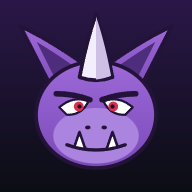
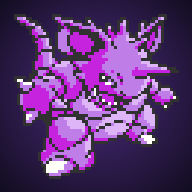
NidoCollection 1.14.1: icona dallo sprite di Nidoking
Icone (iPhone, Android, favicon, estensione) e logo generati dallo sprite pixel art
fornito, ingrandito senza sfocature su sfondo viola scuro.

diff --git a/app.js b/app.js
@@ -502,9 +502,9 @@ async function driveConnectAndSync() {
   renderDriveState();
 }
 
-// logo: volto di Nidoking (stesso disegno di icons/nidoking.svg, usato anche come icona dell'app)
+// logo: sprite di Nidoking (icons/nidoking-sprite.png, ingrandito senza sfocare in icons/logo.png)
 function logoSvg() {
-  return `<svg viewBox="0 0 512 512"><defs><linearGradient id="nk-bg" x1="0" y1="0" x2="0" y2="1"><stop offset="0" stop-color="#2a1748"/><stop offset="1" stop-color="#0b0d14"/></linearGradient><linearGradient id="nk-skin" x1="0" y1="0" x2="0" y2="1"><stop offset="0" stop-color="#9d6ad8"/><stop offset="1" stop-color="#7a49b8"/></linearGradient></defs><rect width="512" height="512" rx="112" fill="url(#nk-bg)"/><g stroke="#241338" stroke-width="10" stroke-linejoin="round" stroke-linecap="round"><path d="M152 262 L54 70 Q130 104 236 180 Z" fill="url(#nk-skin)"/><path d="M360 262 L458 70 Q382 104 276 180 Z" fill="url(#nk-skin)"/><path d="M160 236 L98 112 Q146 140 210 186 Z" fill="#4f2d7d" stroke="none"/><path d="M352 236 L414 112 Q366 140 302 186 Z" fill="#4f2d7d" stroke="none"/><ellipse cx="256" cy="306" rx="160" ry="142" fill="url(#nk-skin)"/><path d="M212 206 Q230 112 256 36 Q282 112 300 206 Q256 222 212 206 Z" fill="#f3eefb"/></g><path d="M256 44 Q280 114 296 202 Q276 210 256 212 Z" fill="#cdbfe6"/><ellipse cx="256" cy="362" rx="114" ry="74" fill="#ab84e0"/><g stroke="#241338" stroke-width="6" stroke-linejoin="round"><path d="M158 286 Q196 254 236 270 Q218 308 178 306 Z" fill="#fff"/><path d="M354 286 Q316 254 276 270 Q294 308 334 306 Z" fill="#fff"/></g><circle cx="210" cy="284" r="13" fill="#d8304d"/><circle cx="302" cy="284" r="13" fill="#d8304d"/><circle cx="212" cy="284" r="5.5" fill="#1a0d2a"/><circle cx="300" cy="284" r="5.5" fill="#1a0d2a"/><g stroke="#241338" stroke-width="15" stroke-linecap="round" fill="none"><path d="M150 250 Q196 250 240 266"/><path d="M362 250 Q316 250 272 266"/></g><ellipse cx="234" cy="340" rx="7" ry="5" fill="#241338"/><ellipse cx="278" cy="340" rx="7" ry="5" fill="#241338"/><g stroke="#241338" stroke-width="7" stroke-linejoin="round" stroke-linecap="round"><path d="M178 386 Q256 414 334 386" fill="none" stroke-width="9"/><path d="M198 392 L212 352 L228 398 Z" fill="#fff"/><path d="M314 392 L300 352 L284 398 Z" fill="#fff"/></g></svg>`;
+  return `<img class="logo-img" src="icons/logo.png" alt="NidoCollection">`;
 }
 
 function render() {

diff --git a/style.css b/style.css
@@ -71,7 +71,9 @@ h3 { font-size: 15px; font-weight: 650; }
 /* ---- barra laterale ---- */
 .side { position: sticky; top: 0; height: 100vh; padding: 22px 14px; display: flex; flex-direction: column; gap: 22px; border-right: 1px solid var(--line); background: color-mix(in srgb, var(--bg2) 70%, transparent); backdrop-filter: blur(10px); }
 .brand { display: flex; gap: 10px; align-items: center; padding: 0 8px; }
-.logo svg { width: 40px; height: 40px; display: block; }
+.logo svg, .logo img { width: 40px; height: 40px; display: block; }
+.logo-img { border-radius: 10px; image-rendering: pixelated; }
+.hero-empty .logo-img { width: 96px; height: 96px; border-radius: 22px; margin-bottom: 8px; }
 .brand-name { font-weight: 800; font-size: 17px; letter-spacing: -.02em; background: var(--grad); -webkit-background-clip: text; background-clip: text; color: transparent; }
 .brand-sub { font-size: 11.5px; color: var(--ink3); }
 .side nav { display: flex; flex-direction: column; gap: 3px; }

diff --git a/sw.js b/sw.js
@@ -1,7 +1,7 @@
 // Service worker della versione web: tiene in memoria i file dell'app, così si apre anche con rete scarsa.
 // Prima prova la rete (per avere sempre l'ultima versione pubblicata), se non c'è usa la copia salvata.
 // Riguarda solo i file dell'app sul proprio sito: prezzi, immagini e Google passano normalmente.
-const CACHE = 'vetrina-app-v3';
+const CACHE = 'vetrina-app-v4';
 self.addEventListener('install', e => self.skipWaiting());
 self.addEventListener('activate', e => e.waitUntil(
   caches.keys().then(ks => Promise.all(ks.filter(k => k !== CACHE).map(k => caches.delete(k)))).then(() => self.clients.claim())

diff --git a/index.html b/index.html
@@ -11,7 +11,6 @@
 <link rel="manifest" href="app.webmanifest">
 <link rel="apple-touch-icon" href="icons/apple-touch-icon.png">
 <title>NidoCollection</title>
-<link rel="icon" href="icons/nidoking.svg" type="image/svg+xml">
 <link rel="icon" href="icons/icon48.png" sizes="48x48">
 <link rel="stylesheet" href="style.css">
 </head>
